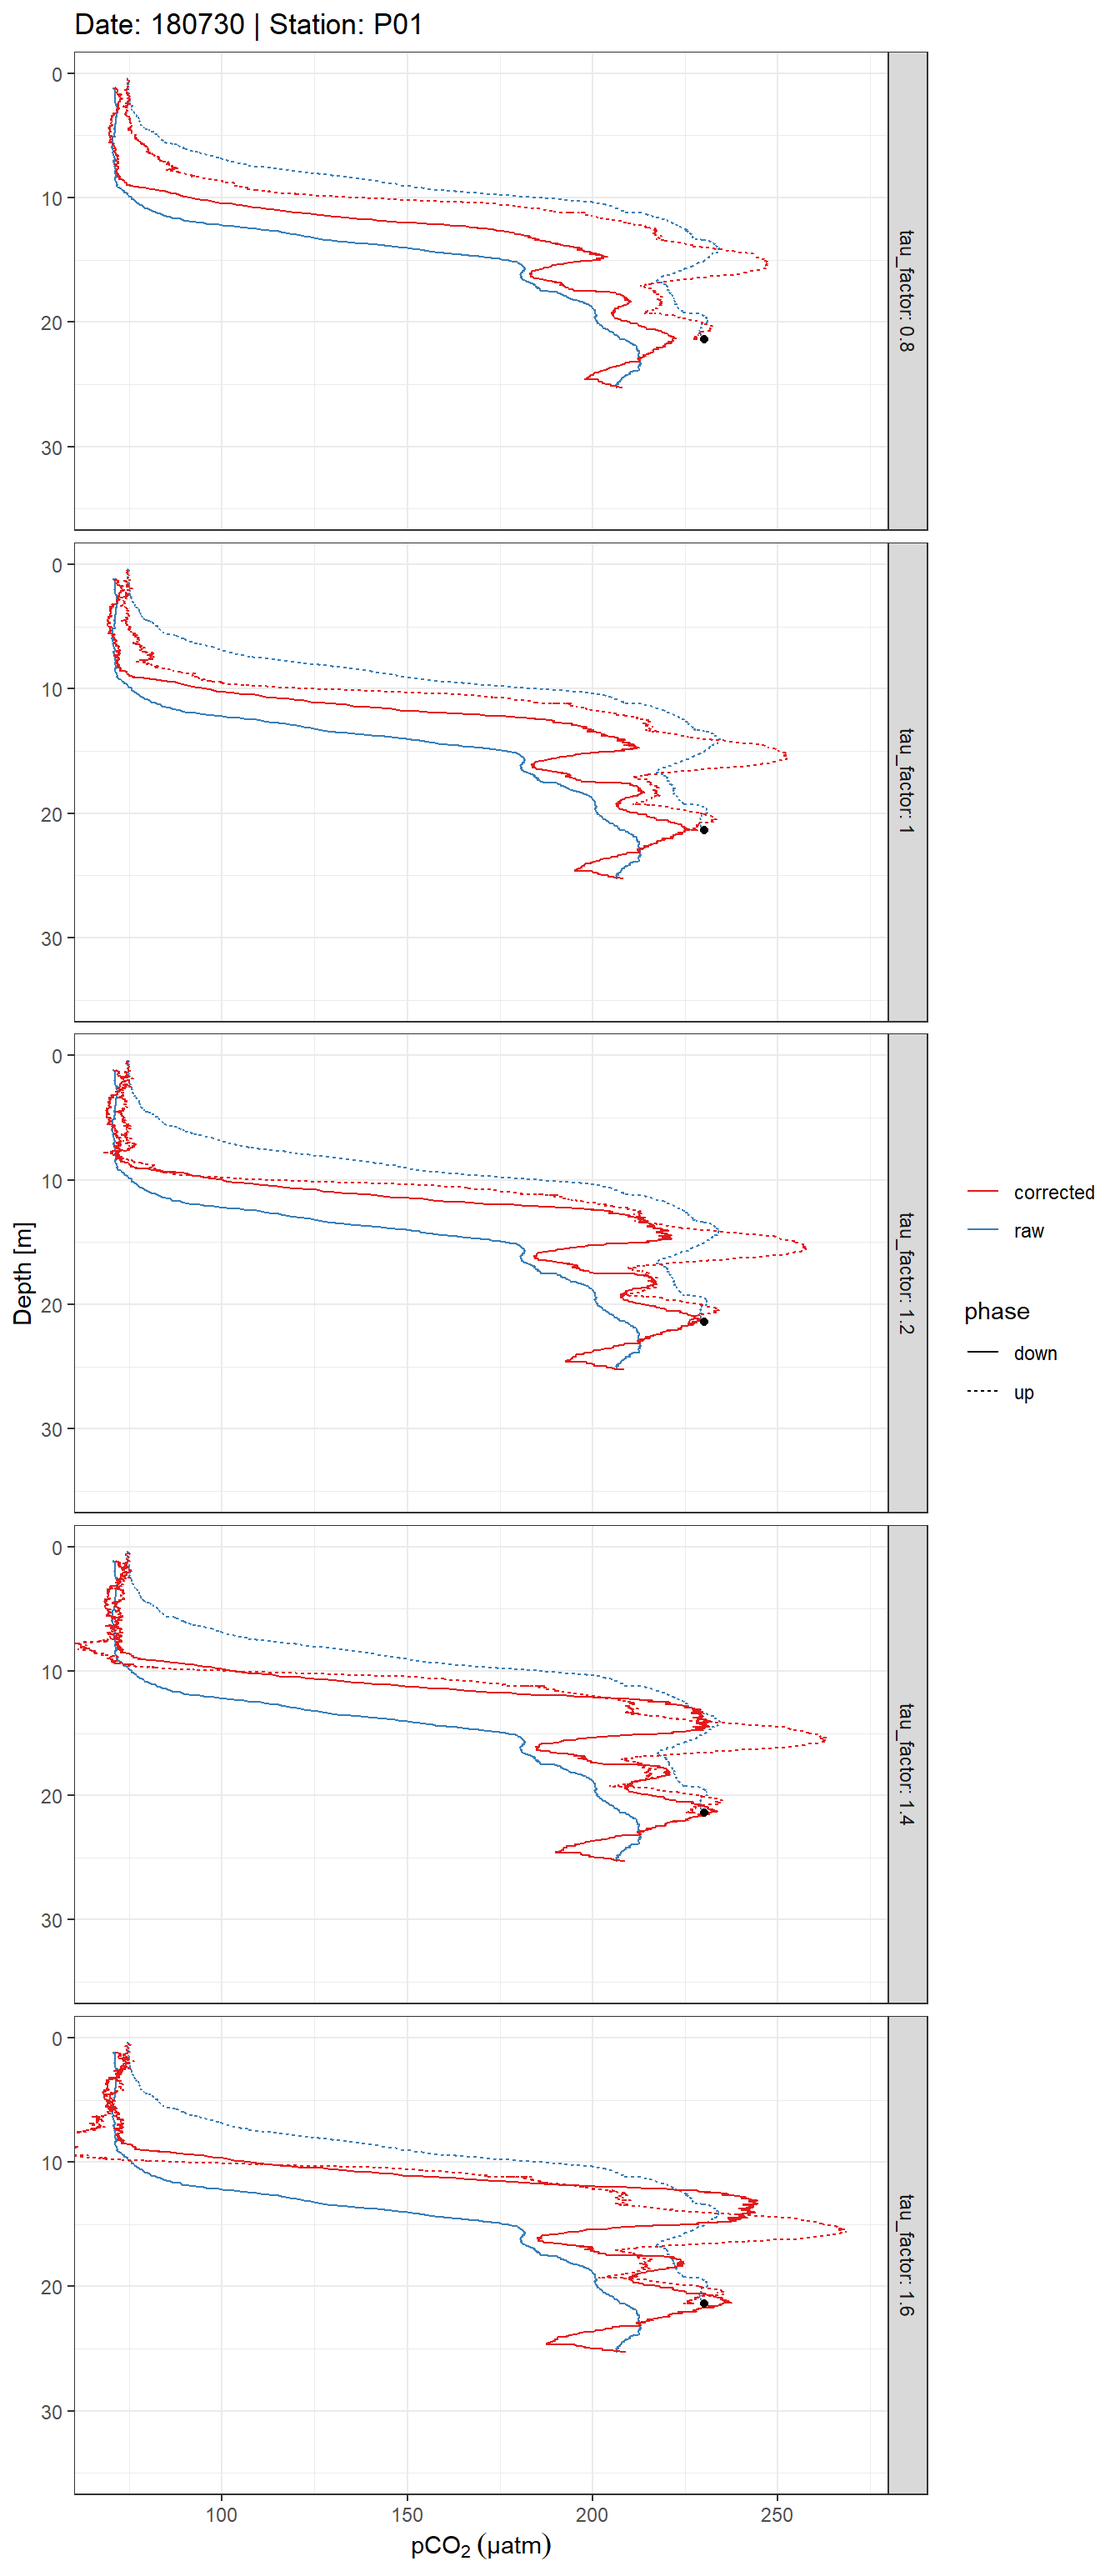
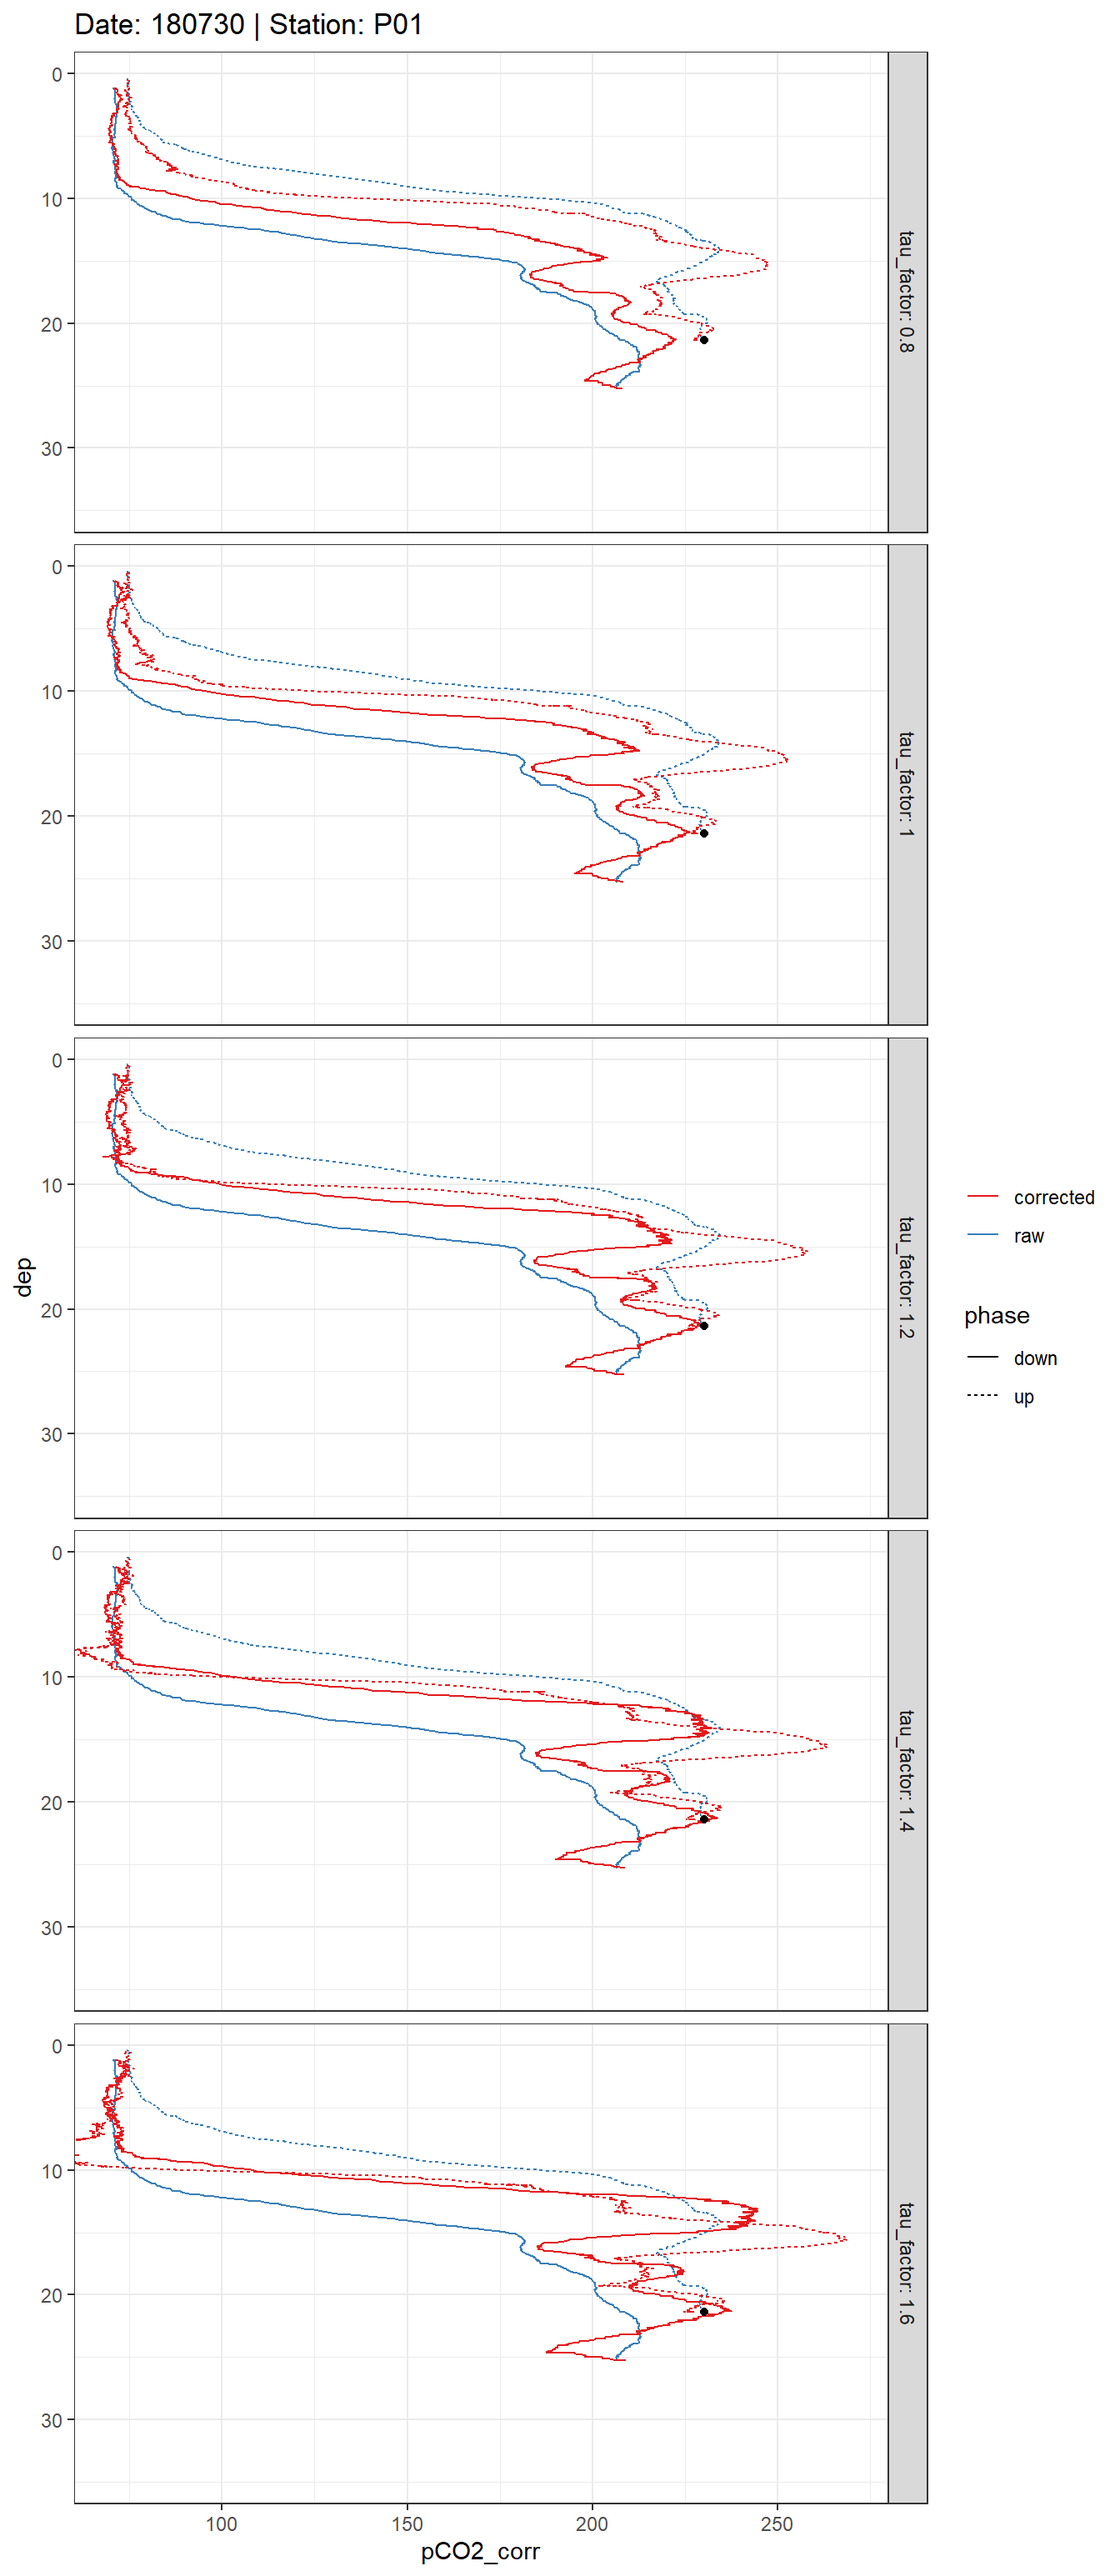
Build site.

diff --git a/docs/response_time.html b/docs/response_time.html
@@ -558,16 +558,16 @@ This reproducible <a href="http://rmarkdown.rstudio.com">R Markdown</a> analysis
 <div class="panel panel-default">
 <div class="panel-heading">
 <p class="panel-title">
-<a data-toggle="collapse" data-parent="#workflowr-checks" href="#strongRepositoryversionstrongahrefhttpsgithubcomjensdanielmuellerBloomSailtree53baed856c1cdd65068f5d68717dd824557830c5targetblank53baed8a"> <span class="glyphicon glyphicon-ok text-success" aria-hidden="true"></span> <strong>Repository version:</strong> <a href="https://github.com/jens-daniel-mueller/BloomSail/tree/53baed856c1cdd65068f5d68717dd824557830c5" target="_blank">53baed8</a> </a>
+<a data-toggle="collapse" data-parent="#workflowr-checks" href="#strongRepositoryversionstrongahrefhttpsgithubcomjensdanielmuellerBloomSailtreea12b57980c349d28407e385849d6f5075a40a857targetblanka12b579a"> <span class="glyphicon glyphicon-ok text-success" aria-hidden="true"></span> <strong>Repository version:</strong> <a href="https://github.com/jens-daniel-mueller/BloomSail/tree/a12b57980c349d28407e385849d6f5075a40a857" target="_blank">a12b579</a> </a>
 </p>
 </div>
[2 lines of base64/hex data omitted]
 <div class="panel-body">
 <p>
 Great! You are using Git for version control. Tracking code development and connecting the code version to the results is critical for reproducibility.
 </p>
 <p>
-The results in this page were generated with repository version <a href="https://github.com/jens-daniel-mueller/BloomSail/tree/53baed856c1cdd65068f5d68717dd824557830c5" target="_blank">53baed8</a>. See the <em>Past versions</em> tab to see a history of the changes made to the R Markdown and HTML files.
+The results in this page were generated with repository version <a href="https://github.com/jens-daniel-mueller/BloomSail/tree/a12b57980c349d28407e385849d6f5075a40a857" target="_blank">a12b579</a>. See the <em>Past versions</em> tab to see a history of the changes made to the R Markdown and HTML files.
 </p>
 <p>
 Note that you need to be careful to ensure that all relevant files for the analysis have been committed to Git prior to generating the results (you can use <code>wflow_publish</code> or <code>wflow_git_commit</code>). workflowr only checks the R Markdown file, but you know if there are other scripts or data files that it depends on. Below is the status of the Git repository when the results were generated:
@@ -623,6 +623,40 @@ Message
 </tr>
 </thead>
 <tbody>
+<tr>
+<td>
+Rmd
+</td>
+<td>
+<a href="https://github.com/jens-daniel-mueller/BloomSail/blob/a12b57980c349d28407e385849d6f5075a40a857/analysis/response_time.Rmd" target="_blank">a12b579</a>
+</td>
+<td>
+jens-daniel-mueller
+</td>
+<td>
+2020-05-06
+</td>
+<td>
+unnecessary code and variables removed
+</td>
+</tr>
+<tr>
+<td>
+html
+</td>
+<td>
+<a href="https://rawcdn.githack.com/jens-daniel-mueller/BloomSail/c9ad77d253f55da81c8f8497e60b43e760895a26/docs/response_time.html" target="_blank">c9ad77d</a>
+</td>
+<td>
+jens-daniel-mueller
+</td>
+<td>
+2020-05-06
+</td>
+<td>
+Build site.
+</td>
+</tr>
 <tr>
 <td>
 Rmd
@@ -2460,17 +2494,22 @@ Determined tau values as a function of the fit interval duration, displayed indi
 Determined tau values as a function of the fit interval duration, pooled for all flush period.
 </p>
 </div>
-<pre class="r"><code># tau_resid %&gt;% 
-#   group_by(Zero_counter) %&gt;% 
-#   mutate(d_tau = tau - mean(tau)) %&gt;% 
-#   ungroup() %&gt;% 
-#   group_by(duration) %&gt;% 
-#   summarise(d_tau_sd = sd(d_tau, na.rm = TRUE)) %&gt;% 
-#   ungroup()
+<pre class="r"><code>duration_min_tau_sd &lt;- tau_resid %&gt;%
+  group_by(Zero_counter) %&gt;%
+  mutate(d_tau = tau - mean(tau)) %&gt;%
+  ungroup() %&gt;%
+  group_by(duration) %&gt;%
+  summarise(d_tau_sd = sd(d_tau, na.rm = TRUE)) %&gt;%
+  ungroup() %&gt;% 
+  slice(which.min(d_tau_sd)) %&gt;%
+  select(duration) %&gt;%
+  pull()
 
 tau_resid &lt;- tau_resid %&gt;% 
-  filter(duration == 300) %&gt;% 
-  select(-duration)</code></pre>
+  filter(duration == duration_min_tau_sd) %&gt;% 
+  select(-duration)
+
+rm(duration_min_tau_sd)</code></pre>
 </div>
 <div id="time-series" class="section level3">
 <h3><span class="header-section-number">2.4.3</span> Time series</h3>
@@ -2486,9 +2525,9 @@ tau_resid &lt;- tau_resid %&gt;%
   labs(y=&quot;Tau (sec)&quot;, x=&quot;Date&quot;)+
   ylim(0,NA)</code></pre>
 <div class="figure" style="text-align: center">
-<img src="figure/response_time.Rmd/tau_vs_date-1.png" alt="Tau for all Zeroings with color representing water depth." width="672" />
+<img src="figure/response_time.Rmd/tau_vs_date-1.png" alt="Tau for all Zeroings with color representing water depth. Red lines represent linear regression trends for tau determined in surface waters (&lt;10m)." width="672" />
 <p class="caption">
-Tau for all Zeroings with color representing water depth.
+Tau for all Zeroings with color representing water depth. Red lines represent linear regression trends for tau determined in surface waters (&lt;10m).
 </p>
 </div>
 </div>
@@ -3021,8 +3060,7 @@ i_station &lt;- example_station
     coord_cartesian(ylim = c(35,0),
                     xlim = c(70, 270))+
     scale_color_brewer(palette = &quot;Set1&quot;, name=&quot;&quot;)+
-    labs(y=&quot;Depth [m]&quot;, x=expression(pCO[2]~(µatm)),
-         title = str_c(&quot;Date: &quot;,i_ID,&quot; | Station: &quot;,i_station))+
+    labs(title = str_c(&quot;Date: &quot;,i_ID,&quot; | Station: &quot;,i_station))+
     facet_grid(tau_factor~., labeller = label_both)</code></pre>
 <div class="figure" style="text-align: center">
 <img src="figure/response_time.Rmd/plot_optimized_RT_corrected_profiles_example-1.png" alt="Example plot of response time corrected and raw pCO~2~ profiles. Panels highlight the effect of constant vs T-dependent tau estimates (columns) and the optimization by applying a constant factor (rows)." width="672" />
@@ -3058,7 +3096,7 @@ for(i_ID in unique(tm$ID)){
     coord_cartesian(ylim = c(35,0),
                     xlim = c(70, 270))+
     scale_color_brewer(palette = &quot;Set1&quot;, name=&quot;&quot;)+
-    labs(y=&quot;Depth [m]&quot;, title = str_c(&quot;Date: &quot;,i_ID,&quot; | Station: &quot;,i_station))+
+    labs(title = str_c(&quot;Date: &quot;,i_ID,&quot; | Station: &quot;,i_station))+
     theme_bw()+
     facet_grid(tau_factor~., labeller = label_both)
       
@@ -3380,7 +3418,7 @@ Offset between pCO<sub>2</sub> downcast and upcast reference value as a function
   ggplot(aes(as.factor(tau_factor), pCO2_delta_equi, fill=correction))+
   geom_hline(yintercept = 0)+
   geom_violin()+
-  labs(y=expression(Delta~pCO[2]~from~reference~(µatm)), x=&quot;Tau factor&quot;)+
+  #labs(y=expression(Delta~pCO[2]~from~reference~(µatm)), x=&quot;Tau factor&quot;)+
   scale_fill_brewer(palette = &quot;Set1&quot;)</code></pre>
 <div class="figure" style="text-align: center">
 <img src="figure/response_time.Rmd/plot_pCO2_offset_reference_value_violin-1.png" alt="Offset between pCO~2~ downcast and upcast reference value. Panels highlight the effect of constant vs T-dependent tau estimates. Colour distinguish raw and corrected offsets." width="672" />
@@ -3412,21 +3450,9 @@ tm_grid_stat %&gt;%
   geom_point()</code></pre>
 <p><img src="figure/response_time.Rmd/identify_max_dep_pCO2_within_profiles-1.png" width="672" style="display: block; margin: auto;" /></p>
 <pre class="r"><code>tm_grid &lt;- full_join(tm_grid, tm_grid_stat)
-rm(tm_grid_stat)</code></pre>
-<pre class="r"><code>tm_grid_stat_high_res &lt;- tm_grid_high_res %&gt;% 
-  filter(correction == &quot;pCO2_mean&quot;) %&gt;% 
-  #drop_na() %&gt;% 
-  group_by(ID, station) %&gt;% 
-  summarise(dep_max = max(dep_grid),
-            pCO2_max = max(down)) %&gt;% 
-  ungroup()
+tm_grid_high_res &lt;- full_join(tm_grid_high_res, tm_grid_stat)
 
-tm_grid_stat_high_res %&gt;% 
-  ggplot(aes(dep_max, pCO2_max))+
-  geom_point()</code></pre>
-<p><img src="figure/response_time.Rmd/identify_max_dep_pCO2_within_profiles_high_res-1.png" width="672" style="display: block; margin: auto;" /></p>
-<pre class="r"><code>tm_grid_high_res &lt;- full_join(tm_grid_high_res, tm_grid_stat_high_res)
-rm(tm_grid_stat_high_res)</code></pre>
+rm(tm_grid_stat)</code></pre>
 <div id="define-dep-and-pco2-thresholds" class="section level3">
 <h3><span class="header-section-number">4.3.1</span> Define dep and pCO2 thresholds</h3>
 <pre class="r"><code>dep_max_lim &lt;- 25
@@ -3507,23 +3533,16 @@ tm_equi_delta_sum &lt;- tm_equi_delta %&gt;%
 Offset between up- and downcast. Panel columns: Constant and T-dependent tau. Panel rows from top to bottom: Mean of absolute offset, mean of relative absolute offset, standard deviation of offset, standard deviation of relative offset.
 </p>
 </div>
-<pre class="r"><code>tm_grid_shallow_sum_mean &lt;- tm_grid_shallow_sum %&gt;% 
-  group_by(estimate, correction, tau_factor) %&gt;% 
-  summarise(pCO2_delta_mean = mean(pCO2_delta)) %&gt;% 
-  ungroup()
-
-tm_grid_shallow_sum_mean_high_res &lt;- tm_grid_shallow_sum_high_res %&gt;% 
+<pre class="r"><code>tm_grid_shallow_sum_mean_high_res &lt;- tm_grid_shallow_sum_high_res %&gt;% 
   group_by(estimate, correction, tau_factor) %&gt;% 
   summarise(pCO2_delta_mean = mean(pCO2_delta)) %&gt;% 
   ungroup()
 
 
 ggplot()+
-  geom_point(data = tm_grid_shallow_sum_mean %&gt;% filter(estimate %in% c(&quot;mean_abs&quot;, &quot;mean_rel_abs&quot;)),
-             aes(tau_factor, pCO2_delta_mean, linetype=correction, shape=correction))+
   geom_line(data = tm_grid_shallow_sum_mean_high_res %&gt;% filter(estimate %in% c(&quot;mean_abs&quot;, &quot;mean_rel_abs&quot;)),
              aes(tau_factor, pCO2_delta_mean, linetype=correction, shape=correction))+
-  geom_hline(yintercept = 0)+
+  ylim(0,NA)+
   facet_wrap(~estimate)</code></pre>
 <div class="figure" style="text-align: center">
 <img src="figure/response_time.Rmd/plot_tau_optimum_cast_delta_pCO2-1.png" alt="Mean offset between up- and downcast for all profiles up to 20m water depth. The lines between discrete tau factors result from the same analysis performed with high resolution of the tau factor. Left Panel: Mean absolute offset (µatm). Right panel: Mean relative offset (% of absolute value)." width="672" />
@@ -3797,7 +3816,7 @@ freq &lt;- tm %&gt;%
 tm &lt;- full_join(tm, freq)
 
 # tau factors
-tm &lt;- expand_grid(tm, tau_factor = seq(1.2))
+tm &lt;- expand_grid(tm, tau_factor = tau_factor_min)
 
 tm &lt;- tm %&gt;%
   mutate(tau_test = tau*tau_factor)
@@ -3897,7 +3916,6 @@ pCO<sub>2</sub> sensitivity to changes in DIC.
 <h1><span class="header-section-number">8</span> Open tasks / questions</h1>
 <ul>
 <li>Clean workspace for plotting code after RT correction</li>
-<li>include high res tau factor output</li>
 </ul>
 <br>
 <p>
